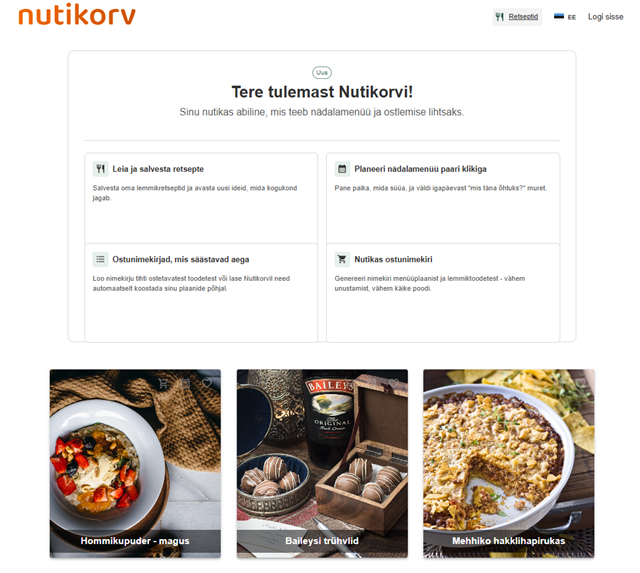
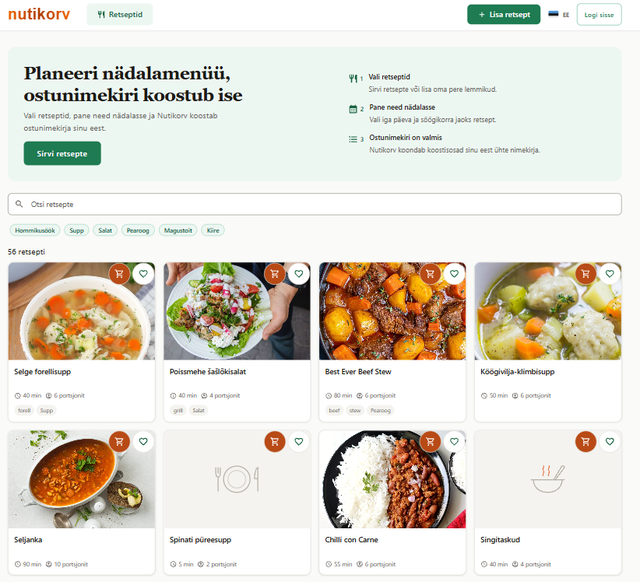
Asenda Nutikorvi pilt uue ekraanipildiga
Claude-Session: https://claude.ai/code/session_01Fh5bDKK76yFspZqaEySujw

diff --git a/index.html b/index.html
@@ -442,11 +442,11 @@
             <div class="device-screen">
               <img
                 src="assets/nutikorv.png"
-                srcset="assets/nutikorv-640.png 640w, assets/nutikorv.png 1033w"
+                srcset="assets/nutikorv-640.png 640w, assets/nutikorv.png 822w"
                 sizes="(min-width: 1040px) 38vw, (min-width: 720px) 50vw, 100vw"
                 alt="Nutikorvi avaleht retseptide, nädalamenüü ja ostunimekirja võimalustega"
-                width="1033"
-                height="925"
+                width="822"
+                height="748"
                 loading="lazy"
                 decoding="async">
             </div>
